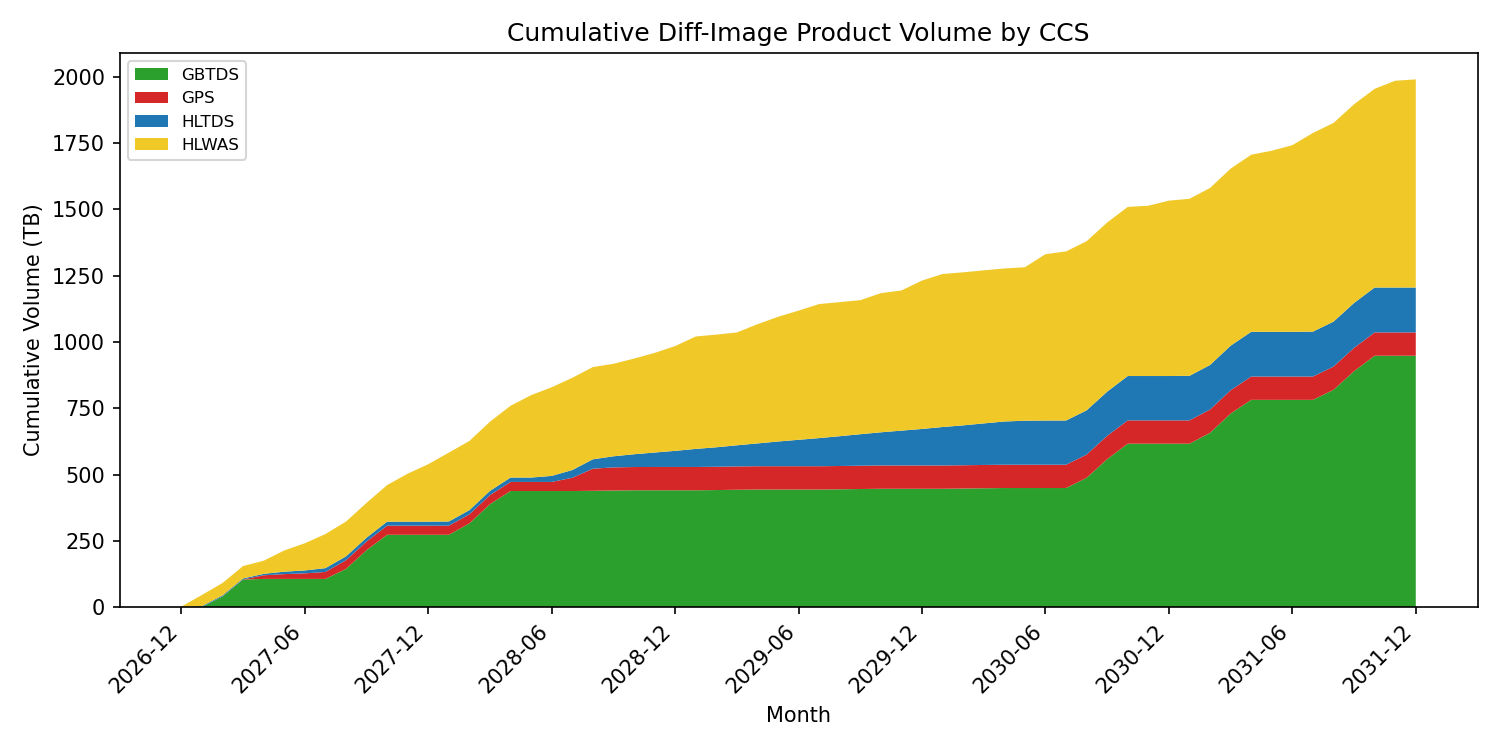
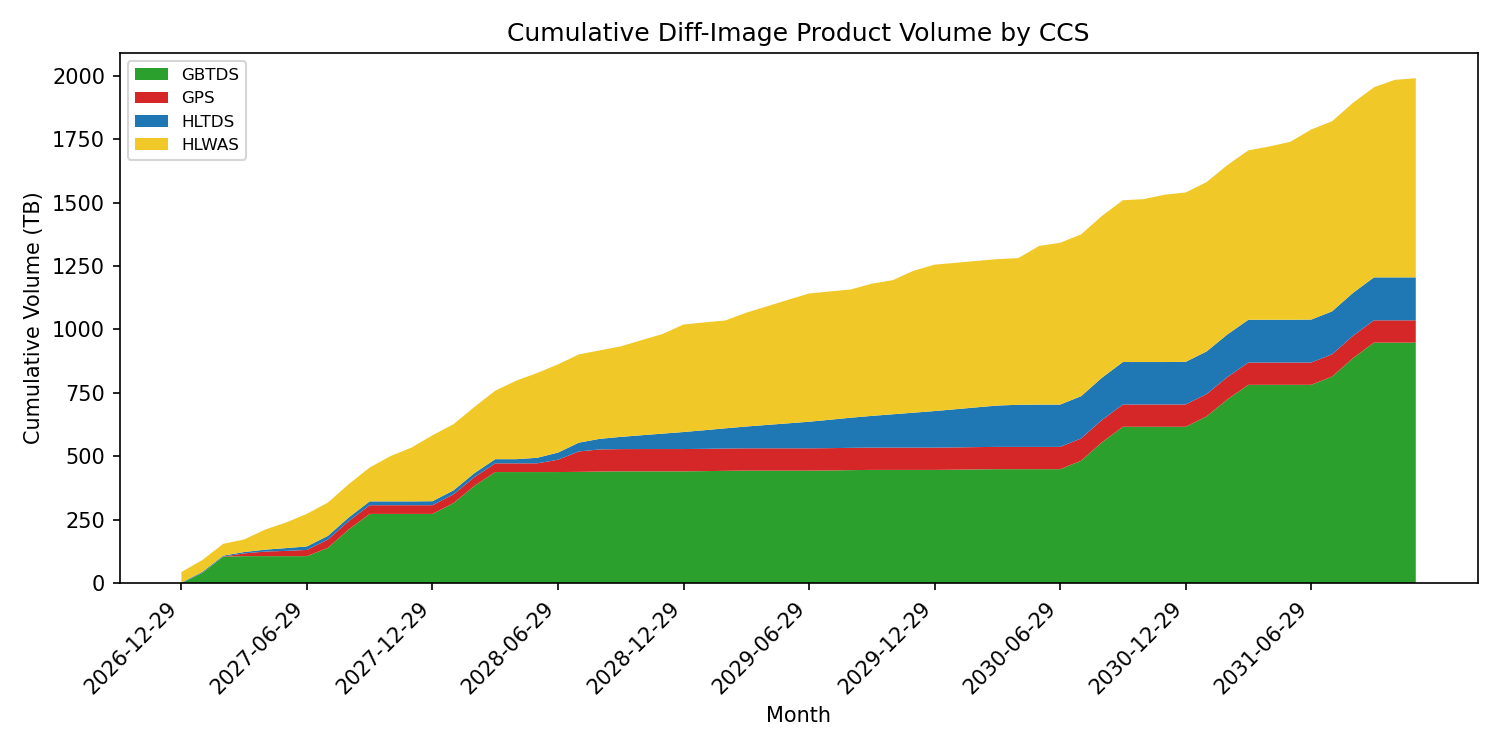
Align RAPID archive model with 60-month mission timeline

diff --git a/docs/source/archive/archive.rst b/docs/source/archive/archive.rst
@@ -63,7 +63,7 @@ The pipeline produces products at several stages, each on a different timescale:
 Observation Model
 ************************************
 
-Volume estimates in this document are based on the provisional Roman scheduled observations (``consolidated_roman_scheduled_observations.csv``), which covers four Core Community Surveys (CCS) over a five-year nominal mission (2027--2031). RAPID does not process spectroscopic (GRISM/PRISM) exposures; these are excluded from all counts below.
+Volume estimates in this document are based on the provisional Roman scheduled observations (``consolidated_roman_scheduled_observations.csv``), which covers four Core Community Surveys (CCS) over a five-year nominal mission. The current schedule spans imaging observations from **2026-12-29** through **2031-12-09**; for delivery and cost modeling these are grouped into **60 mission-month bins** anchored on the first observation. RAPID does not process spectroscopic (GRISM/PRISM) exposures; these are excluded from all counts below.
 
 .. list-table:: Mission Summary by CCS (imaging only, 2027--2031)
    :header-rows: 1
@@ -105,7 +105,7 @@ Product Sizes
 
 Product sizes are measured from the 2026-02-27 pipeline test run using OpenUniverse simulated data. The pipeline currently generates products with three differencing methods (ZOGY, SFFT, Naive) in both positive and negative directions. For archive delivery to MAST, only **ZOGY positive** products are planned; SFFT and Naive products are retained internally for algorithm evaluation.
 
-This reduces the per-SCA archive footprint from 816 MB (all methods, both directions) to **204 MB** (ZOGY positive only). The archive volume per SCA is dominated by three 64 MB FITS images (difference image, uncertainty map, and SCORR image), which together account for 99% of the per-SCA footprint. Catalogs and PSFs are negligible by comparison.
+This reduces the per-SCA archive footprint from 816 MB (all methods, both directions) to **204 MB** (ZOGY positive only). The archive volume per SCA is dominated by three 67 MB FITS images (difference image, uncertainty map, and SCORR image), which together account for 99% of the per-SCA footprint. Catalogs and PSFs are negligible by comparison.
 
 Product Inventory
 =================
@@ -124,33 +124,49 @@ Product Inventory
      - Delivery
    * - **Reference** (per tile/filter)
      - Image (7Kx7K coadd)
-     - 190 MB
+     - 196 MB
      - 126 K
-     - 23 TB
+     - 25 TB
      - DR
      - FITS
      - ASDF
    * -
      - Coverage map
-     - 190 MB
+     - 196 MB
      - 126 K
-     - 23 TB
+     - 25 TB
      - DR
      - FITS
      - ASDF
    * -
      - Uncertainty image
-     - 190 MB
+     - 196 MB
      - 126 K
-     - 23 TB
+     - 25 TB
      - DR
      - FITS
      - ASDF
    * -
-     - Source catalog
-     - 4 MB
+     - SExtractor catalog
+     - 10.7 MB
      - 126 K
-     - 0.6 TB
+     - 1.3 TB
+     - DR
+     - Parquet
+     - Parquet
+   * -
+     - PSF-fit catalog (Parquet)
+     - 4.0 MB
+     - 126 K
+     - 0.5 TB
+     - DR
+     - Parquet
+     - Parquet
+   * -
+     - PSF-fit finder catalog
+     - 3.3 MB
+     - 126 K
+     - 0.4 TB
      - DR
      - Parquet
      - Parquet
@@ -164,9 +180,9 @@ Product Inventory
      - ASDF
    * -
      - *Subtotal*
-     - *611 MB*
+     - *606 MB*
      -
-     - *70 TB*
+     - *76 TB*
      -
      -
      -
@@ -180,25 +196,25 @@ Product Inventory
      -
    * - **Difference** (per SCA image)
      - Difference image (ZOGY)
-     - 64 MB
+     - 67 MB
      - 9.8 M
-     - 587 TB
+     - 654 TB
      - Prompt
      - FITS
      - ASDF
    * -
      - Uncertainty map (ZOGY)
-     - 64 MB
+     - 67 MB
      - 9.8 M
-     - 587 TB
+     - 654 TB
      - Prompt
      - FITS
      - ASDF
    * -
      - SCORR image (ZOGY)
-     - 64 MB
+     - 67 MB
      - 9.8 M
-     - 587 TB
+     - 654 TB
      - Prompt
      - FITS
      - ASDF
@@ -211,10 +227,18 @@ Product Inventory
      - FITS
      - ASDF
    * -
-     - Source catalogs
-     - 3 MB
+     - SExtractor catalog
+     - 2.5 MB
      - 9.8 M
-     - 28 TB
+     - 24 TB
+     - Prompt
+     - Parquet
+     - Parquet
+   * -
+     - PSF-fit catalog (Parquet)
+     - 0.3 MB
+     - 9.8 M
+     - 3 TB
      - Prompt
      - Parquet
      - Parquet
@@ -222,15 +246,15 @@ Product Inventory
      - Science image PSF
      - 43 KB
      - 9.8 M
-     - 0.5 TB
+     - 0.4 TB
      - Prompt
      - FITS
      - ASDF
    * -
      - *Subtotal*
-     - *195 MB*
+     - *204 MB*
      -
-     - *1.76 PB*
+     - *2.0 PB*
      -
      -
      -
@@ -283,7 +307,7 @@ Product Inventory
      -
      -
 
-All products are delivered monthly (60 deliveries over 5 years). Reference products are data releases (DR); difference-image products are prompt. Alerts stream live via Kafka and are archived to MAST monthly.
+All products are delivered monthly (60 mission-month deliveries over the 5-year mission model). Reference products are data releases (DR); difference-image products are prompt. Alerts stream live via Kafka and are archived to MAST monthly.
 
 A complete listing of all pipeline output files (including intermediate and debug products) is in :doc:`/prod/products`.
 
@@ -301,7 +325,7 @@ Key properties:
 * Defined per **sky tile and filter** (Roman tessellation NSIDE=512, giving 6.3 million tiles), not per SCA --- images from any SCA or exposure that overlaps the tile contribute to the stack
 * Quality assessed via the ``cov5percent`` metric and other measures stored in the :doc:`operations database </db/db>`
 
-Each reference image is accompanied by a coverage map, an uncertainty image, a PSF model, and a PhotUtils PSF-fit source catalog.
+Each reference image is accompanied by a coverage map, an uncertainty image, a PSF model, a SExtractor source catalog, and PSF-fit source and finder catalogs.
 
 For details of the tiling scheme and reference-image construction, see :doc:`/pl/pl`. For quality analysis of current reference images, see :doc:`/prod/products`.
 
@@ -409,7 +433,7 @@ Based on the provisional mission schedule, the estimated average monthly deliver
 
 * 2.0 PB of difference-image products
 * 0.75 PB of archived alert packets
-* 0.1 PB of reference images and catalogs
+* 0.08 PB of reference images and catalogs
 
 .. image:: volume_by_ccs.png
 
@@ -433,9 +457,9 @@ Each reprocessing regenerates all products from the beginning of the mission. Du
 
 The overlap effectively doubles the storage requirement at each reprocessing event:
 
-* **Baseline final storage**: 2.7 PB (single copy of all products)
-* **Peak at end-of-mission reprocessing**: 5.5 PB (old + new versions)
-* The 2-year reprocessing peak reaches 2.6 PB (on a 1.3 PB baseline)
+* **Baseline final storage**: 2.8 PB (single copy of all products)
+* **Peak at end-of-mission reprocessing**: 5.6 PB beginning on 2031-12-29 (old + new versions)
+* The 2-year reprocessing peak reaches 3.0 PB (on a 1.5 PB baseline)
 
 .. image:: reprocessing_storage.png
 
@@ -456,7 +480,7 @@ The following cost estimates are based on public AWS on-demand pricing for the u
      - Notes
    * - S3 storage
      - $0.021--0.023/GB/month (tiered)
-     - Includes reprocessing overlap periods where storage doubles
+     - Includes in-mission reprocessing overlaps; the final post-mission overlap is tracked in storage plots, not in the 5-year cost total
    * - Batch compute
      - $0.192/hr (m5.xlarge)
      - 4 vCPU, 16 GB; 8 min per science pipeline job, 1 min per post-processing job
@@ -474,19 +498,19 @@ The following cost estimates are based on public AWS on-demand pricing for the u
    * - Component
      - Cost
    * - S3 storage
-     - $2.1 M
+     - $2.2 M
    * - Compute (Batch + Reprocessing)
      - $0.7 M
    * - Kafka/MSK
-     - $28 K
+     - $27 K
    * - **TOTAL**
      - **$2.9 M**
    * - Average per month
-     - $48 K
+     - $49 K
    * - Average per year
-     - $571 K
+     - $587 K
 
-S3 storage dominates (74% of total cost) and grows steadily as the archive accumulates. Compute costs are relatively modest for routine processing but spike during the three reprocessing events, particularly the end-of-mission reprocessing which re-runs all 9.8 M SCA images. Total 5-year cost is estimated at $2.9 M at list price. Kafka/MSK is a minor fixed cost.
+S3 storage dominates (74% of total cost) and grows steadily as the archive accumulates. Compute costs are relatively modest for routine processing but spike during the three reprocessing events, particularly the end-of-mission reprocessing which re-runs all 9.8 M SCA images. Total 5-year cost is estimated at $2.9 M at list price; the separate 5.6 PB end-of-mission overlap peak occurs after the 60 modeled mission months. Kafka/MSK is a minor fixed cost.
 
 These estimates exclude data transfer (egress) costs, database hosting (RDS/EC2 for PostgreSQL), and any operational overhead. Negotiated pricing, reserved instances, or Spot instances for Batch could reduce costs significantly.
 
